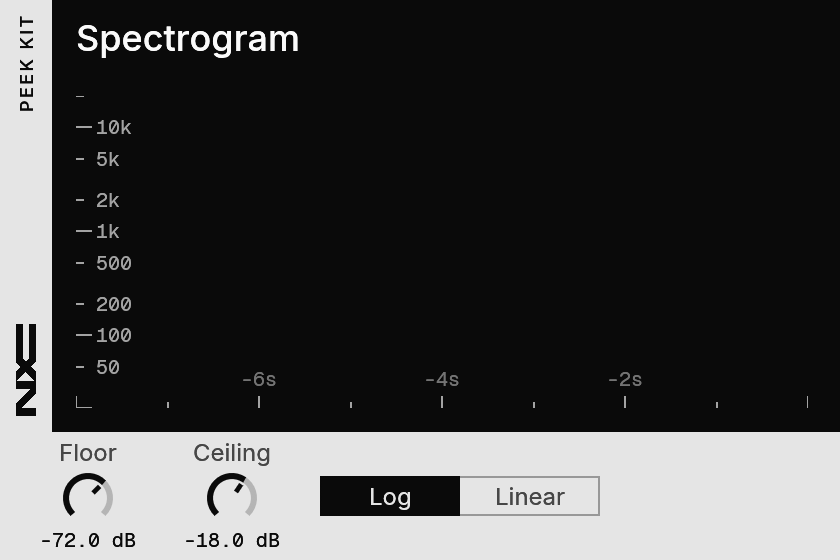
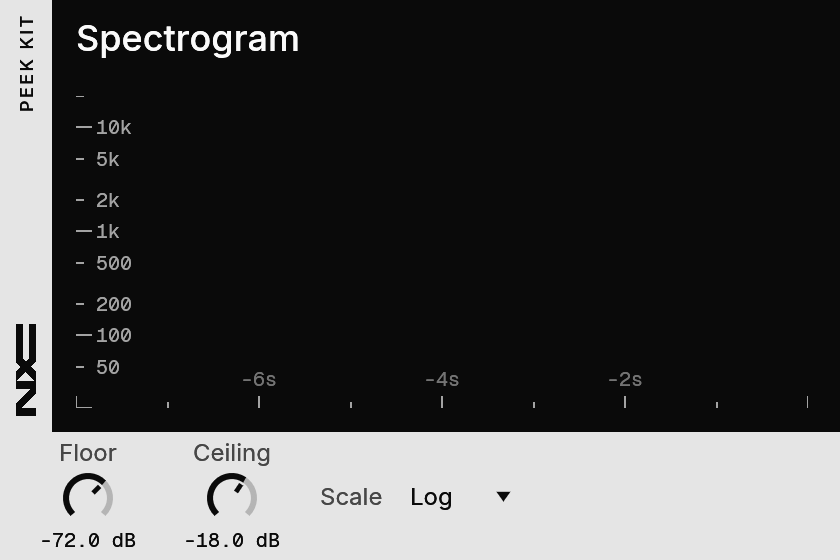
feat: use select for every peek choice

Changed region(s): [[0.3714, 0.85, 0.7119, 0.9411]]

diff --git a/plugins/peek/peek/src/ui.rs b/plugins/peek/peek/src/ui.rs
@@ -83,28 +83,12 @@ fn cell(ui: &Ui, rect: Rect, title: &str) -> Rect {
     )
 }
 
-/// A segmented choice at the top right of a cell.
-fn corner(ui: &mut Ui, ctx: &Ctx, rect: Rect, id: u32, names: &[&str], index: usize, width: f32) {
-    corner_at(ui, ctx, rect, 0.0, id, names, index, width);
-}
-
-/// The same, `offset` further left, for a second choice beside the first.
-#[allow(clippy::too_many_arguments)]
-fn corner_at(
-    ui: &mut Ui,
-    ctx: &Ctx,
-    rect: Rect,
-    offset: f32,
-    id: u32,
-    names: &[&str],
-    index: usize,
-    width: f32,
-) {
-    let mut child = ui.new_child(UiBuilder::new().max_rect(Rect::from_min_size(
-        pos2(rect.right() - width - SPACE_2 - offset, rect.top() + 3.0),
-        vec2(width, nxe_egui::segment::HEIGHT),
-    )));
-    peek_ui::choice(&mut child, ctx, &PALETTE, id, names, index, width);
+/// The choices at the top right of a cell, the first at the right.
+fn corner(ui: &mut Ui, ctx: &Ctx, rect: Rect, choices: &[(u32, &str, &[&str], usize)]) {
+    let mut row = peek_ui::corner(ui, rect.right() - SPACE_2, rect.top() + 3.0);
+    for (id, label, names, index) in choices {
+        peek_ui::choice(&mut row, ctx, &PALETTE, *id, label, names, *index);
+    }
 }
 
 fn view(ui: &mut Ui, ctx: &Ctx) {
@@ -164,10 +148,7 @@ fn view(ui: &mut Ui, ctx: &Ctx) {
         ui,
         ctx,
         upper[2],
-        params.target.id(),
-        &Target::NAMES,
-        target,
-        112.0,
+        &[(params.target.id(), "Target", &Target::NAMES, target)],
     );
     peek_ui::stereo::figure(ui, &PALETTE, cell(ui, upper[3], "Stereo"), &readings.stereo);
 
@@ -188,20 +169,15 @@ fn view(ui: &mut Ui, ctx: &Ctx) {
         ui,
         ctx,
         lower[0],
-        params.tilt.id(),
-        &["Flat", "3 dB", "4.5 dB"],
-        tilt,
-        132.0,
-    );
-    corner_at(
-        ui,
-        ctx,
-        lower[0],
-        132.0 + SPACE_2,
-        params.spectrum_scale.id(),
-        &["Log", "Lin"],
-        spectrum_scale,
-        72.0,
+        &[
+            (params.tilt.id(), "Tilt", &["Flat", "3 dB", "4.5 dB"], tilt),
+            (
+                params.spectrum_scale.id(),
+                "Scale",
+                &["Log", "Linear"],
+                spectrum_scale,
+            ),
+        ],
     );
     peek_ui::spectrogram::figure(
         ui,
@@ -216,10 +192,12 @@ fn view(ui: &mut Ui, ctx: &Ctx) {
         ui,
         ctx,
         lower[1],
-        params.spectrogram_scale.id(),
-        &["Log", "Lin"],
-        spectrogram_scale,
-        72.0,
+        &[(
+            params.spectrogram_scale.id(),
+            "Scale",
+            &["Log", "Linear"],
+            spectrogram_scale,
+        )],
     );
     peek_ui::scope::figure(
         ui,

diff --git a/plugins/peek/peek-loudness/src/ui.rs b/plugins/peek/peek-loudness/src/ui.rs
@@ -1,7 +1,7 @@
 //! The Peek Loudness window: the integrated figure, the history against the target, and the moving readings on the band. A click on the band clears the integrated reading.
 
 use crate::params::PeekLoudnessParams;
-use egui::{Rect, Ui, UiBuilder, pos2, vec2};
+use egui::{Rect, Ui, pos2, vec2};
 use nxe_egui::kit::{self, kit};
 use nxe_egui::theme::{Palette, SPACE_2, SPACE_3, SPACE_4};
 use std::sync::Arc;
@@ -32,17 +32,6 @@ fn areas(ui: &Ui, name: &str) -> (Rect, Rect) {
     (figure, areas.band.shrink2(vec2(SPACE_4, 0.0)))
 }
 
-/// A child `Ui` laid out left to right inside `rect`.
-fn row(ui: &mut Ui, rect: Rect) -> Ui {
-    let mut row = ui.new_child(
-        UiBuilder::new()
-            .max_rect(rect)
-            .layout(egui::Layout::left_to_right(egui::Align::Center)),
-    );
-    row.spacing_mut().item_spacing = vec2(SPACE_4, 0.0);
-    row
-}
-
 use egui::{Align2, Sense};
 use nxe_egui::font;
 use nxe_egui::theme::FONT_EYEBROW;
@@ -58,21 +47,15 @@ fn view(ui: &mut Ui, ctx: &Ctx) {
     peek_ui::heartbeat(ui, true);
     let (figure, band) = areas(ui, "Loudness");
     let target = params.target.index() as usize;
-    let mut corner = row(
-        ui,
-        Rect::from_min_size(
-            pos2(figure.right() - 160.0, figure.top() - kit::HEAD + SPACE_2),
-            vec2(160.0, nxe_egui::segment::HEIGHT),
-        ),
-    );
+    let mut corner = peek_ui::corner(ui, figure.right(), figure.top() - kit::HEAD + SPACE_2);
     peek_ui::choice(
         &mut corner,
         ctx,
         &PALETTE,
         params.target.id(),
+        "Target",
         &crate::params::Target::NAMES,
         target,
-        160.0,
     );
     peek_ui::loudness::figure(
         ui,

diff --git a/plugins/peek/peek-ui/src/lib.rs b/plugins/peek/peek-ui/src/lib.rs
@@ -161,19 +161,36 @@ pub fn bipolar_cell(ui: &mut Ui, ink: &Palette, name: &str, value: f32, width: f
     );
 }
 
-/// A segmented choice bound to an enum parameter.
+/// A choice bound to an enum parameter: its name and a list
+/// (`nxe_egui::select`), as wide as its words.
 pub fn choice<P: truce_params::Params>(
     ui: &mut Ui,
     ctx: &truce_core::editor::PluginContext<P>,
     palette: &Palette,
     id: u32,
+    label: &str,
     names: &[&str],
     index: usize,
-    width: f32,
 ) {
-    if let Some(picked) = nxe_egui::segment::segment(ui, palette, names, index, width) {
+    if let Some(picked) = nxe_egui::select::select(ui, palette, label, names, index) {
         bind::set_plain(ctx, id, picked as f64);
     }
+}
+
+/// A row of choices ending at `right`, `top` down, laid out right to left:
+/// the first added sits at the right.
+pub fn corner(ui: &mut Ui, right: f32, top: f32) -> Ui {
+    const WIDTH: f32 = 360.0;
+    let mut row = ui.new_child(
+        egui::UiBuilder::new()
+            .max_rect(Rect::from_min_size(
+                pos2(right - WIDTH, top),
+                vec2(WIDTH, nxe_egui::segment::HEIGHT),
+            ))
+            .layout(egui::Layout::right_to_left(egui::Align::Center)),
+    );
+    row.spacing_mut().item_spacing.x = nxe_egui::theme::SPACE_4;
+    row
 }
 
 #[cfg(test)]

diff --git a/plugins/peek/peek-vu/src/ui.rs b/plugins/peek/peek-vu/src/ui.rs
@@ -62,21 +62,15 @@ fn view(ui: &mut Ui, ctx: &Ctx) {
     let vu = amplitudes.map(|amplitude| peek_ui::vu::vu_of(amplitude, reference));
 
     let look = params.look.index() as usize;
-    let mut corner = row(
-        ui,
-        Rect::from_min_size(
-            pos2(figure.right() - 96.0, figure.top() - kit::HEAD + SPACE_2),
-            vec2(96.0, nxe_egui::segment::HEIGHT),
-        ),
-    );
+    let mut corner = peek_ui::corner(ui, figure.right(), figure.top() - kit::HEAD + SPACE_2);
     peek_ui::choice(
         &mut corner,
         ctx,
         &PALETTE,
         params.look.id(),
+        "Look",
         &["Arc", "Line"],
         look,
-        96.0,
     );
     if look == 0 {
         peek_ui::vu::arc(ui, &PALETTE, figure, vu);

diff --git a/plugins/peek/peek-spectrum/src/ui.rs b/plugins/peek/peek-spectrum/src/ui.rs
@@ -75,17 +75,17 @@ fn view(ui: &mut Ui, ctx: &Ctx) {
         ctx,
         &ink,
         params.tilt.id(),
+        "Tilt",
         &["Flat", "3 dB", "4.5 dB"],
         tilt,
-        200.0,
     );
     peek_ui::choice(
         &mut cells,
         ctx,
         &ink,
         params.scale.id(),
+        "Scale",
         &["Log", "Linear"],
         scale,
-        140.0,
     );
 }

diff --git a/plugins/peek/peek-spectrogram/src/ui.rs b/plugins/peek/peek-spectrogram/src/ui.rs
@@ -76,8 +76,8 @@ fn view(ui: &mut Ui, ctx: &Ctx) {
         ctx,
         &ink,
         params.scale.id(),
+        "Scale",
         &["Log", "Linear"],
         params.scale.index() as usize,
-        140.0,
     );
 }

diff --git a/crates/nxe-egui/README.md b/crates/nxe-egui/README.md
@@ -37,6 +37,7 @@ next pass.
 | `knob`, `bar` | value controls |
 | `entry` | the typed value (`UI-3`), opened from a knob's figure |
 | `segment` | mutually exclusive choices |
+| `number`, `toggle`, `select` | a named value, switch or list in a row of controls: `Root 220 Hz`, `Tuning [Free]`, `Chord Fifth ▾`; corner marks while held. Kit rows and Peek's choices |
 | `readout` | an eyebrow over a rule and one fixed-width figure |
 | `meter` | a level with a peak mark |
 | `curve` | a signal as a monotone cubic, with an optional fill and glow |
